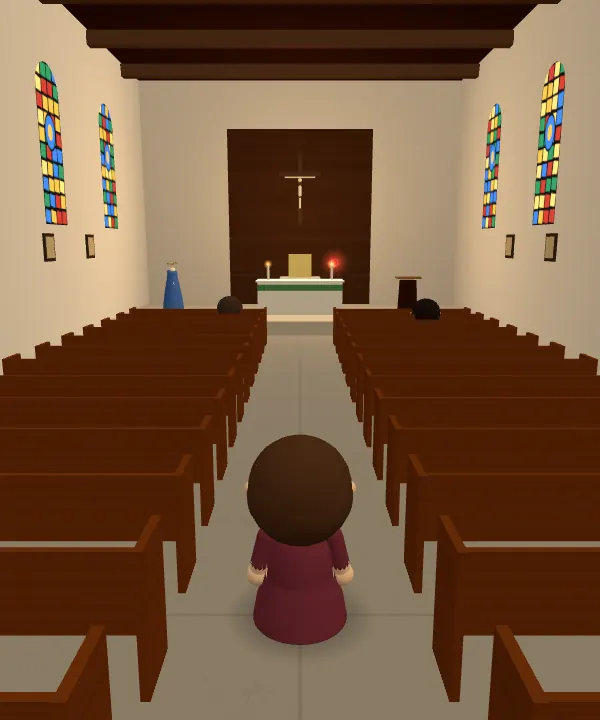
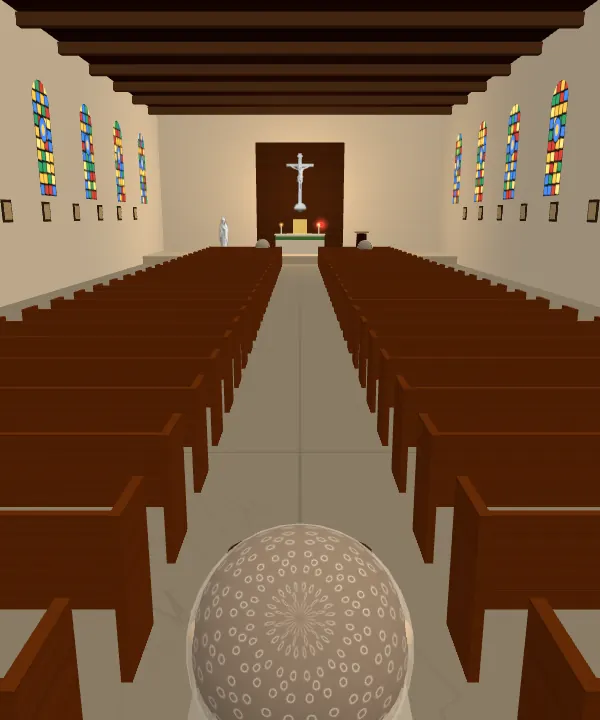
법당·교회·성당 공간을 약 2배로 넓히고 천장을 높임(자리 수는 그대로 유지), 사이트 사진 다시 촬영
Claude-Session: https://claude.ai/code/session_01TJUsTByDCEcfZsEYPpK4HM

diff --git a/src/worlds/catholic/cathedral.ts b/src/worlds/catholic/cathedral.ts
@@ -46,12 +46,12 @@ const floorTexture = () =>
 /** 고딕 대성당 (PujaTime 사원 홀과 같은 방식: 밝은 재질 색 + 빛 번짐 + 금장식 + 앉아 있는 신자들) */
 export function buildCathedral(ctx: BuildCtx): Built {
   const { scene, high } = ctx
-  const W = 18, Z0 = -34, Z1 = 10, NAVE = 11
+  const W = 22, Z0 = -34, Z1 = 34, NAVE = 15
   const env = brassEnv()
   const gold = brass(env)
   const marble = marbleEnv()
   scene.background = new THREE.Color('#1a1018')
-  scene.fog = new THREE.Fog('#2a1a1c', 34, 80)
+  scene.fog = new THREE.Fog('#2a1a1c', 50, 120)
   scene.add(new THREE.HemisphereLight(0xfff3e0, 0x8a6a50, 2.4))
   const sun = new THREE.DirectionalLight(0xfff0d0, 1.2)
   sun.position.set(-6, 20, 10)
@@ -80,14 +80,14 @@ export function buildCathedral(ctx: BuildCtx): Built {
   wall(W, 30, 0, 15, Z1, Math.PI)
   wall(Z1 - Z0, 10, -NAVE / 2, 16, (Z0 + Z1) / 2, Math.PI / 2)
   wall(Z1 - Z0, 10, NAVE / 2, 16, (Z0 + Z1) / 2, -Math.PI / 2)
-  scene.add(vault(NAVE, 21, 27, Z0, Z1, std('#4a3e56')))
+  scene.add(vault(NAVE, 24, 32, Z0, Z1, std('#4a3e56')))
   const sideV = vault(W / 2 - NAVE / 2, 11, 13, Z0, Z1, std('#5a4c5a'))
   sideV.position.x = -(W / 2 + NAVE / 2) / 2
   const sideV2 = sideV.clone()
   sideV2.position.x = -sideV.position.x
   scene.add(sideV, sideV2)
   const ribM = brass(env, 0xd8c8a8)
-  for (let z = Z0 + 3; z <= Z1 - 2; z += 5) scene.add(rib(NAVE, 21, 27, z, ribM, 0.14))
+  for (let z = Z0 + 3; z <= Z1 - 2; z += 5) scene.add(rib(NAVE, 24, 32, z, ribM, 0.14))
 
   // 다발 기둥(금 기둥머리) + 아치
   for (let z = Z0 + 3; z <= Z1 - 2; z += 5)
@@ -303,7 +303,7 @@ export function buildCathedral(ctx: BuildCtx): Built {
   ctx.walk({ x0: -W / 2, z0: sZ + 4.2, x1: W / 2, z1: Z1 })
   ctx.walk({ x0: -4, z0: sZ + 4, x1: 4, z1: sZ + 6 })
   return {
-    spawn: [0, -2],
+    spawn: [0, Z1 - 12],
     yaw: 0,
     look: LOOKS.catholic,
     dist: 8,

diff --git a/src/worlds/christian/church.ts b/src/worlds/christian/church.ts
@@ -72,7 +72,7 @@ const wainscot = () =>
  */
 export function buildChurch(ctx: BuildCtx): Built {
   const { scene, high } = ctx
-  const W = 24, Z0 = -34, Z1 = 12, H = 17
+  const W = 32, Z0 = -34, Z1 = 40, H = 22
   const GAL = 4.2 // 갤러리 깊이
   const GY = 5.4 // 갤러리 바닥 높이
   const env = brassEnv()
@@ -80,7 +80,7 @@ export function buildChurch(ctx: BuildCtx): Built {
   const gold = brass(env)
   const walnut = std('#5a3820', { map: wood('#5a3820') })
   scene.background = new THREE.Color('#2a2018')
-  scene.fog = new THREE.Fog('#3a2c20', 40, 90)
+  scene.fog = new THREE.Fog('#3a2c20', 50, 130)
   scene.add(new THREE.HemisphereLight(0xfff6e8, 0x8a6a48, 2.5))
   const sun = new THREE.DirectionalLight(0xfff0d6, 1.3)
   sun.position.set(10, 18, 8)
@@ -301,7 +301,7 @@ export function buildChurch(ctx: BuildCtx): Built {
   ctx.walk({ x0: -W / 2 + GAL + 0.4, z0: pZ + 5.2, x1: W / 2 - GAL - 0.4, z1: Z1 })
   ctx.walk({ x0: -W / 2, z0: Z1 - 3, x1: W / 2, z1: Z1 })
   return {
-    spawn: [0, 1],
+    spawn: [0, Z1 - 11],
     yaw: 0,
     look: LOOKS.christian,
     dist: 9,

diff --git a/src/worlds/catholic/three.ts b/src/worlds/catholic/three.ts
@@ -247,8 +247,8 @@ export function buildGothic(ctx: BuildCtx): Built {
 export function buildParish(ctx: BuildCtx): Built {
   const { scene } = ctx
   scene.background = new THREE.Color('#1a1512')
-  scene.fog = new THREE.Fog('#1a1512', 16, 34)
-  const W = 11, Z0 = -18, Z1 = 6
+  scene.fog = new THREE.Fog('#1a1512', 30, 60)
+  const W = 16, Z0 = -18, Z1 = 22
   const L = Z1 - Z0
   const floor = new THREE.Mesh(new THREE.PlaneGeometry(W, L), std('#aaa', { map: marble('#d8d0c2', '#a89c86', [4, 8]), roughness: 0.4 }))
   floor.rotation.x = -Math.PI / 2
@@ -367,7 +367,7 @@ export function buildParish(ctx: BuildCtx): Built {
   ctx.npc(3, Z0 + 7.6, Math.PI, visitorLook('catholic', 4), 'pray')
   ctx.walk({ x0: -W / 2, z0: Z0 + 5, x1: W / 2, z1: Z1 })
   return {
-    spawn: [0, 0],
+    spawn: [0, Z1 - 6],
     yaw: 0,
     look: LOOKS.catholic,
     dist: 4.2,

diff --git a/src/worlds/christian/three.ts b/src/worlds/christian/three.ts
@@ -135,7 +135,7 @@ export function buildTraditional(ctx: BuildCtx): Built {
 /** 현대 교회: 밝은 자연광, 참나무, 천창 빛이 떨어지는 나무 십자가, 곡선 의자, 피아노와 낮은 강단 (공연장 느낌 없이) */
 export function buildModern(ctx: BuildCtx): Built {
   const { scene, high } = ctx
-  const W = 20, Z0 = -22, Z1 = 12, H = 11
+  const W = 28, Z0 = -22, Z1 = 28, H = 15
   scene.background = new THREE.Color('#e8e4dc')
   scene.fog = new THREE.Fog('#efe9df', 40, 90)
   scene.add(new THREE.HemisphereLight(0xffffff, 0xb8a890, 2.6))
@@ -257,7 +257,7 @@ export function buildModern(ctx: BuildCtx): Built {
   ctx.spot('stage', 0, pZ + 4.6, 2)
   ctx.walk({ x0: -W / 2, z0: pZ + 3.4, x1: W / 2, z1: Z1 })
   return {
-    spawn: [0, 7],
+    spawn: [0, Z1 - 5],
     yaw: 0,
     look: LOOKS.christian,
     dist: 8,

diff --git a/src/worlds/temple/daeung.ts b/src/worlds/temple/daeung.ts
@@ -60,7 +60,7 @@ const thangkaTexture = () =>
 
 export function buildDaeung(ctx: BuildCtx): Built {
   const { scene, high } = ctx
-  const W = 28, Z0 = -22, Z1 = 14, H = 13
+  const W = 40, Z0 = -22, Z1 = 34, H = 18
   const env = brassEnv()
   const gold = brass(env)
   scene.background = new THREE.Color('#2a1408')
@@ -264,7 +264,7 @@ export function buildDaeung(ctx: BuildCtx): Built {
   ctx.walk({ x0: -W / 2, z0: altarZ + 3.2, x1: W / 2, z1: Z1 })
   let lanternCount = 0
   return {
-    spawn: [0, 3],
+    spawn: [0, Z1 - 11],
     yaw: 0,
     look: LOOKS.temple,
     dist: 8,
